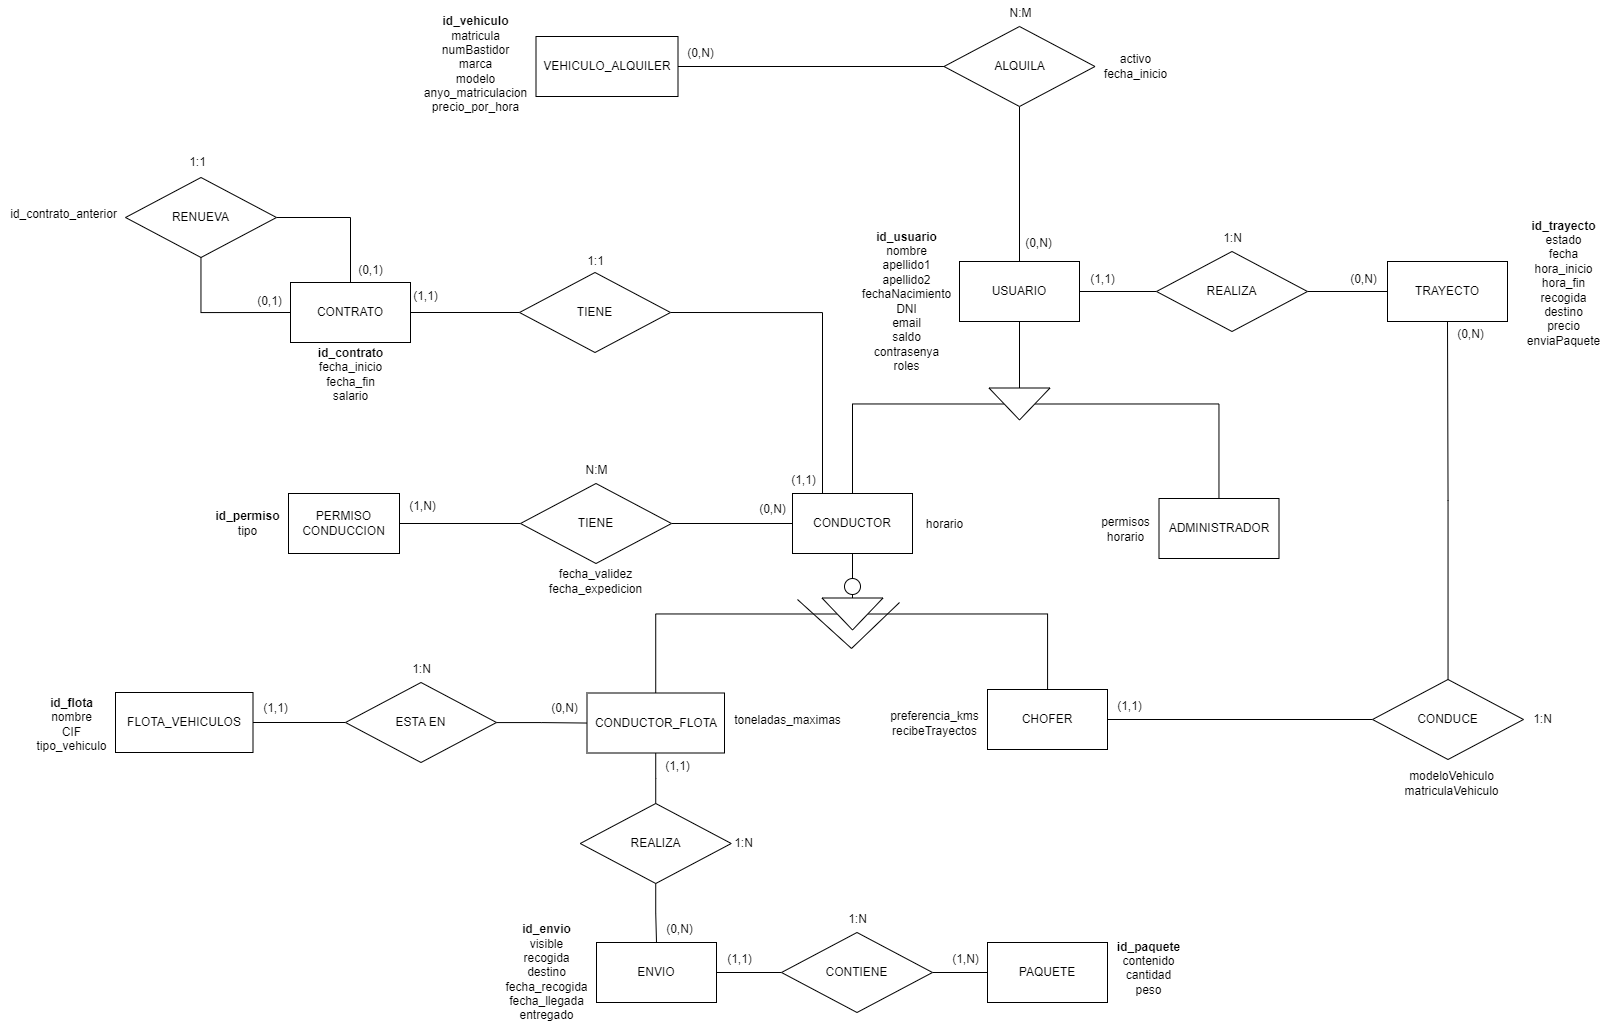
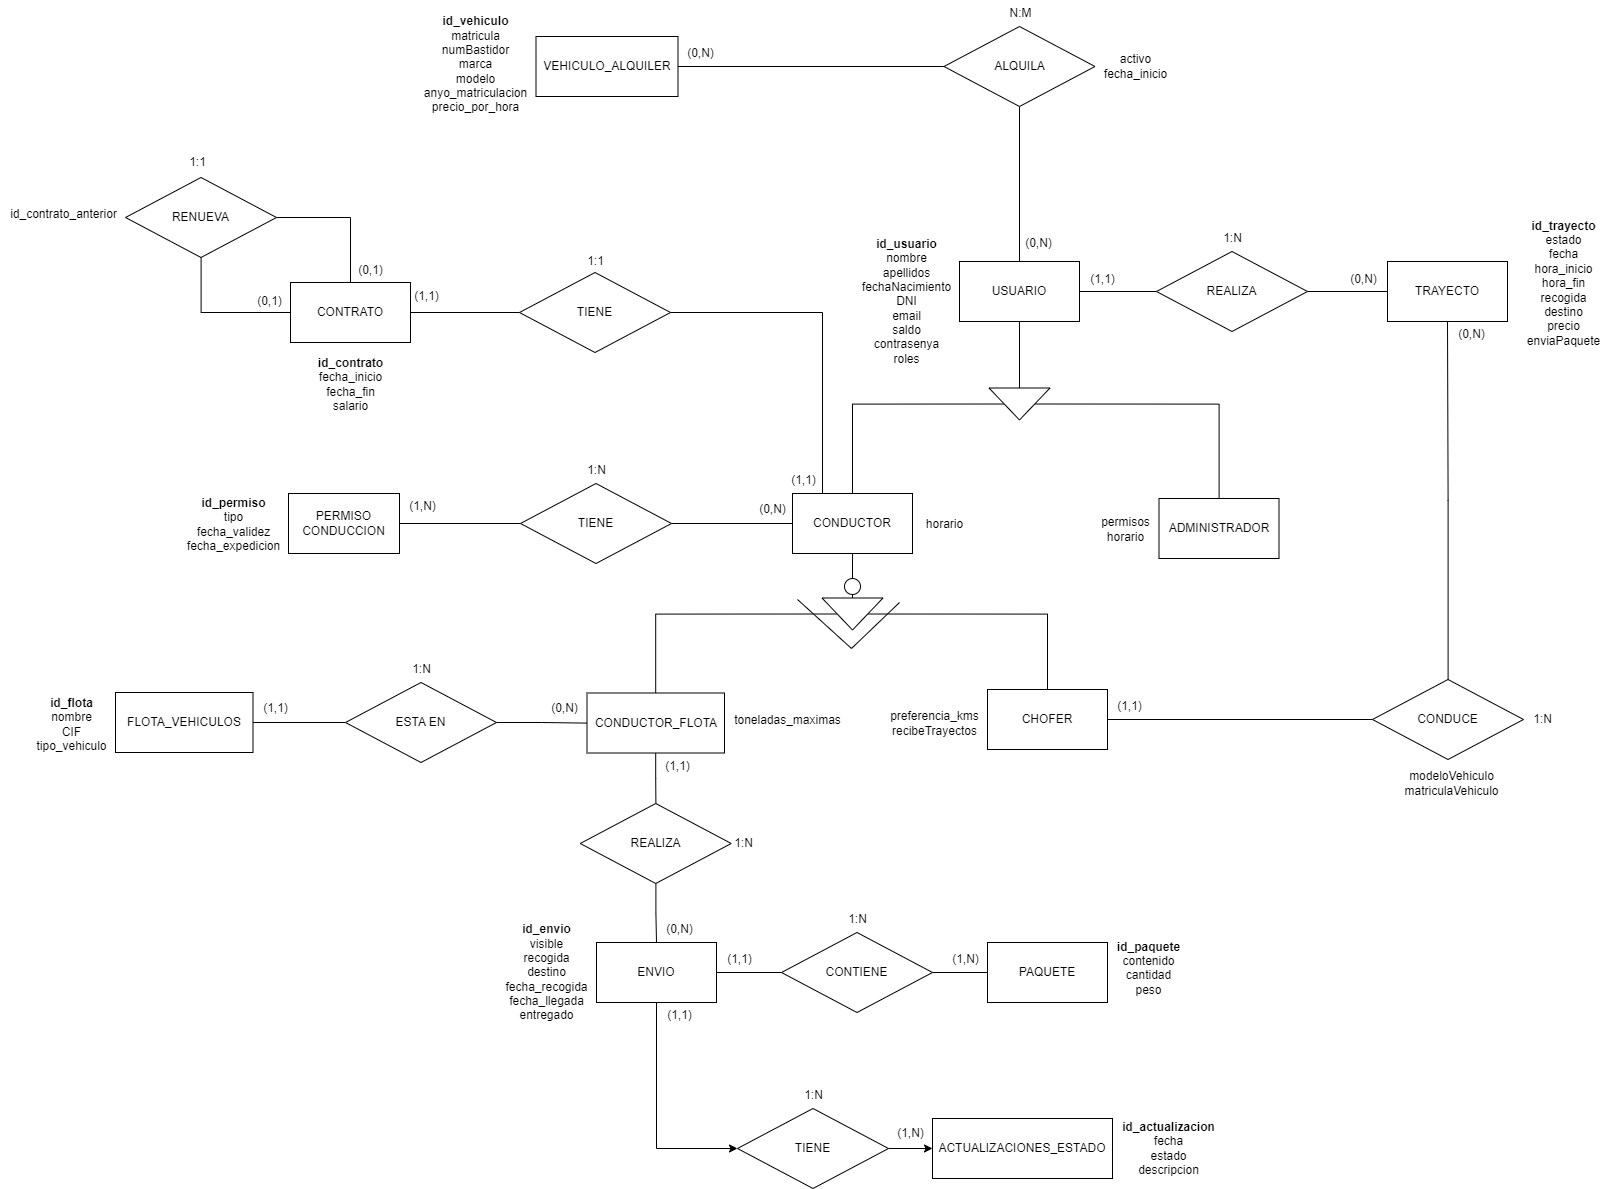
docs: updated MER diagram to the new model

diff --git a/Backend/src/main/java/es/iesmm/proyecto/drivehub/backend/model/http/request/ship/ShipmentStatusUpdateRequest.java b/Backend/src/main/java/es/iesmm/proyecto/drivehub/backend/model/http/request/ship/ShipmentStatusUpdateRequest.java
@@ -1,0 +1,2 @@
+package es.iesmm.proyecto.drivehub.backend.model.http.request.ship;public class ShipmentStatusUpdateRequest {
+}

diff --git a/Backend/src/main/java/es/iesmm/proyecto/drivehub/backend/model/http/request/ship/ShipmentCreationRequest.java b/Backend/src/main/java/es/iesmm/proyecto/drivehub/backend/model/http/request/ship/ShipmentCreationRequest.java
@@ -1,0 +1,2 @@
+package es.iesmm.proyecto.drivehub.backend.model.http.request.ship;public class ShipmentCreationRequest {
+}

diff --git a/Backend/src/main/java/es/iesmm/proyecto/drivehub/backend/service/ship/impl/SimpleShipmentService.java b/Backend/src/main/java/es/iesmm/proyecto/drivehub/backend/service/ship/impl/SimpleShipmentService.java
@@ -1,0 +1,2 @@
+package es.iesmm.proyecto.drivehub.backend.service.ship.impl;public class SimpleShipmentService {
+}

diff --git a/Backend/src/main/java/es/iesmm/proyecto/drivehub/backend/controller/ship/ShipmentController.java b/Backend/src/main/java/es/iesmm/proyecto/drivehub/backend/controller/ship/ShipmentController.java
@@ -1,0 +1,2 @@
+package es.iesmm.proyecto.drivehub.backend.controller.ship;public class ShipmentController {
+}

diff --git a/Backend/src/main/java/es/iesmm/proyecto/drivehub/backend/service/ship/ShipmentService.java b/Backend/src/main/java/es/iesmm/proyecto/drivehub/backend/service/ship/ShipmentService.java
@@ -1,0 +1,2 @@
+package es.iesmm.proyecto.drivehub.backend.service.ship;public interface ShipmentService {
+}

diff --git a/Backend/src/main/java/es/iesmm/proyecto/drivehub/backend/repository/ShipmentRepository.java b/Backend/src/main/java/es/iesmm/proyecto/drivehub/backend/repository/ShipmentRepository.java
@@ -1,0 +1,2 @@
+package es.iesmm.proyecto.drivehub.backend.repository;public class ShipmentRepository {
+}
